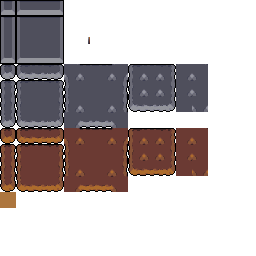
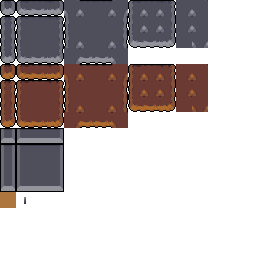
Adds autotiling

diff --git a/src/fast_tilemap.cpp b/src/fast_tilemap.cpp
@@ -2,8 +2,60 @@
 
 using namespace godot;
 
+const std::unordered_map<int, Vector2> FastTileMap::autotile_variant_map = {
+	{0, Vector2(0, 0)},
+	{2, Vector2(0, 3)},
+	{8, Vector2(3, 0)},
+	{10, Vector2(10, 2)},
+	{11, Vector2(3, 3)},
+	{16, Vector2(1, 0)},
+	{18, Vector2(8, 2)},
+	{22, Vector2(1, 3)},
+	{24, Vector2(2, 0)},
+	{26, Vector2(9, 2)},
+	{27, Vector2(6, 3)},
+	{30, Vector2(5, 3)},
+	{31, Vector2(2, 3)},
+	{64, Vector2(0, 1)},
+	{66, Vector2(0, 2)},
+	{72, Vector2(10, 0)},
+	{74, Vector2(10, 1)},
+	{75, Vector2(7, 2)},
+	{80, Vector2(8, 0)},
+	{82, Vector2(8, 1)},
+	{86, Vector2(4, 2)},
+	{88, Vector2(9, 0)},
+	{90, Vector2(9, 1)},
+	{91, Vector2(4, 0)},
+	{94, Vector2(7, 0)},
+	{95, Vector2(12, 2)},
+	{104, Vector2(3, 1)},
+	{106, Vector2(7, 1)},
+	{107, Vector2(3, 2)},
+	{120, Vector2(6, 0)},
+	{122, Vector2(4, 3)},
+	{123, Vector2(11, 1)},
+	{126, Vector2(11, 0)},
+	{127, Vector2(6, 2)},
+	{208, Vector2(1, 1)},
+	{210, Vector2(4, 1)},
+	{214, Vector2(1, 2)},
+	{216, Vector2(5, 0)},
+	{218, Vector2(7, 3)},
+	{219, Vector2(12, 0)},
+	{222, Vector2(12, 1)},
+	{223, Vector2(5, 2)},
+	{248, Vector2(2, 1)},
+	{250, Vector2(11, 2)},
+	{251, Vector2(6, 1)},
+	{254, Vector2(5, 1)},
+	{255, Vector2(2, 2)}
+};
+
 void FastTileMap::_bind_methods() {
 	ClassDB::bind_method(D_METHOD("set_tile", "cellPos", "tile", "TILE_SIZE", "texture"), &FastTileMap::set_tile);
+	ClassDB::bind_method(D_METHOD("clear_tiles", "tileRIDs"), &FastTileMap::clear_tiles);
+	ClassDB::bind_method(D_METHOD("set_cells_autotile", "cellPositions", "TILE_SIZE", "texture"), &FastTileMap::set_cells_autotile);
 }
 
 FastTileMap::FastTileMap() {
@@ -24,4 +76,73 @@ void FastTileMap::set_tile(Vector2 cellPos, int tile, int TILE_SIZE, Ref<Texture
 	RenderingServer::get_singleton()->canvas_item_add_texture_rect_region(tileRID, dst_rect, texture->get_rid(), src_rect);
 	
 	tileRIDs[cellPos] = tileRID;
+}
+
+void FastTileMap::clear_tiles(Dictionary tileRIDs) {
+	for (int i = 0; i < tileRIDs.size(); i++) {
+		RenderingServer::get_singleton()->canvas_item_clear(tileRIDs[i]);
+	}
+	tileRIDs.clear();
+}
+
+void FastTileMap::set_cells_autotile(Array cellPositions, int atlas, int TILE_SIZE, Ref<Texture2D> texture) {
+	for (int i = 0; i < cellPositions.size(); i++) {
+		Vector2 cellPos = cellPositions[i];
+		Vector2 tilePos = cellPos * TILE_SIZE;
+		
+		Vector2 variant = get_autotile_variant(cellPos, cellPositions);
+		
+		RID tileRID = RenderingServer::get_singleton()->canvas_item_create();
+		RenderingServer::get_singleton()->canvas_item_set_parent(tileRID, get_canvas_item());
+		
+		Rect2 src_rect(variant.x * TILE_SIZE, (atlas * TILE_SIZE * ATLAS_SIZE) + variant.y * TILE_SIZE, TILE_SIZE, TILE_SIZE);
+		Rect2 dst_rect(tilePos.x, tilePos.y, TILE_SIZE, TILE_SIZE);
+		
+		RenderingServer::get_singleton()->canvas_item_add_texture_rect_region(tileRID, dst_rect, texture->get_rid(), src_rect);
+		
+		tileRIDs[cellPos] = tileRID;
+	}
+}
+
+Vector2 FastTileMap::get_autotile_variant(Vector2 cellPos, Array cellPositions) {
+	static thread_local std::unordered_set<Vector2> position_set;
+    position_set.clear();
+    position_set.reserve(cellPositions.size());
+	
+	for (int j = 0; j < cellPositions.size(); j++) {
+        position_set.insert(cellPositions[j]);
+    }
+	
+	const Vector2 neighbors[8] = {
+        cellPos + Vector2(-1, -1),
+        cellPos + Vector2(0, -1),
+        cellPos + Vector2(1, -1),
+        cellPos + Vector2(-1, 0),
+        cellPos + Vector2(1, 0),
+        cellPos + Vector2(-1, 1),
+        cellPos + Vector2(0, 1),
+        cellPos + Vector2(1, 1)
+    };
+	
+	bool hasTop = position_set.count(neighbors[1]);
+    bool hasLeft = position_set.count(neighbors[3]);
+    bool hasRight = position_set.count(neighbors[4]);
+    bool hasBottom = position_set.count(neighbors[6]);
+	
+	int bitmask = 0;
+	
+	if (hasTop) bitmask |= 2;
+	if (hasLeft) bitmask |= 8;
+	if (hasRight) bitmask |= 16;
+	if (hasBottom) bitmask |= 64;
+	
+	if (hasTop && hasLeft && position_set.count(neighbors[0])) bitmask |= 1;
+    if (hasTop && hasRight && position_set.count(neighbors[2])) bitmask |= 4;
+    if (hasBottom && hasLeft && position_set.count(neighbors[5])) bitmask |= 32;
+    if (hasBottom && hasRight && position_set.count(neighbors[7])) bitmask |= 128;
+	
+	if (auto it = autotile_variant_map.find(bitmask); it != autotile_variant_map.end()) {
+        return it->second;
+    }
+    return Vector2(0, 0);
 }

diff --git a/src/fast_tilemap.h b/src/fast_tilemap.h
@@ -4,6 +4,19 @@
 #include <godot_cpp/classes/node2d.hpp>
 #include <godot_cpp/classes/rendering_server.hpp>
 #include <godot_cpp/variant/dictionary.hpp>
+#include <unordered_map>
+#include <unordered_set>
+
+namespace std {
+    template<>
+    struct hash<godot::Vector2> {
+        size_t operator()(const godot::Vector2& v) const {
+            size_t h1 = hash<float>{}(v.x);
+            size_t h2 = hash<float>{}(v.y);
+            return h1 ^ (h2 << 1);
+        }
+    };
+}
 
 namespace godot {
 
@@ -14,11 +27,18 @@ protected:
 	static void _bind_methods();
 	Dictionary tileRIDs;
 
+private:
+    int ATLAS_SIZE = 4;
+    static const std::unordered_map<int, Vector2> autotile_variant_map;
+
 public:
     FastTileMap();
     ~FastTileMap();
 
     void set_tile(Vector2 cellPos, int tile, int TILE_SIZE, Ref<Texture2D> texture);
+    void clear_tiles(Dictionary tileRIDs);
+    void set_cells_autotile(Array cellPositions, int atlas, int TILE_SIZE, Ref<Texture2D> texture);
+    Vector2 get_autotile_variant(Vector2 cellPos, Array cellPositions);
 };
 
 }
